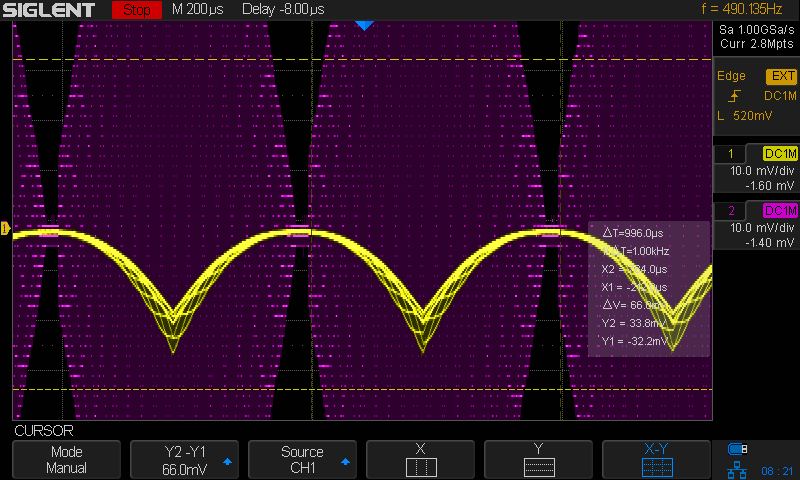
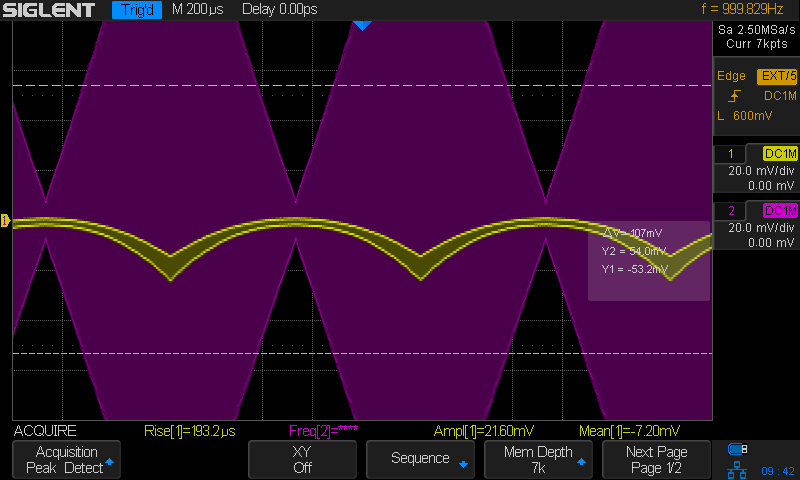
Power sensors.

diff --git a/_drafts/2023-04-19-Automated-HP-423A-Crystal-Detector-Characterization-with-Sqlite3.md b/_drafts/2023-04-19-Automated-HP-423A-Crystal-Detector-Characterization-with-Sqlite3.md
@@ -335,23 +335,27 @@ the small signals, but it definitely looks more linear for higher values.
 
 [![-10dBm AM triangle waveform and detector output on scope](/assets/hp423a/triangle_waveform_-10dBm.png)](/assets/hp423a/triangle_waveform_-10dBm.png)
 
-**XXXXX Are all these graphs wrong? Vpp in the graph is double of what is should be?**
-
 Raising the output by 10dBm once more to 0dBm/0.63Vpp, and there's very little left of quadratic behavior.
 
 [![0dBm AM triangle waveform and detector output on scope](/assets/hp423a/triangle_waveform_0dBm.png)](/assets/hp423a/triangle_waveform_0dBm.png)
+
+*If -20dBm corresponds to 63mVpp, and -10dBm to 0.2Vpp, then why does the cursor on the scope
+shots show a &#916;V? of shots show 104mV and 330mV? It's because the dBm to Vpp forumula assumes
+a fixed amplitude sinewave. In our case, the signal is amplitude modulated, so the peak signal
+excursion is larger to compensate for times where the amplidute is lower.*
 
 # Playing with the Detector Load 
 
 Without a load resistor, or better: with a very weak load resistor of 1M&#937;, the square law
 region of the detector goes from around -50dBm to around -20dBm. There's nothing much we can do about
-the -50dBm: below that you're essentially measuring noise. But it is possible to increase the region
-upwards to -10dBm, by adding a load resistor at the output of the detector.
+the -50dBm: below that you're essentially measuring noise. But it is possible to increase the 
+square law region upwards to -10dBm, by adding a load resistor at the output of the detector.
 
 [![Measurement Setup 2](/assets/hp423a/measurement_setup2.png)](/assets/hp423a/measurement_setup2.png)
 
 HP 11523A is exactly that: "a matched load resistor for optimimum square characteristics". I've
-measured the resistance to be 562&#937;.
+measured the resistance to be 562&#937;. *I don't know which criterium is used to determine
+value of the matched resistor.*
 
 ![HP 423A detector with HP 11523A load resistor](/assets/hp423a/hp423a_hp11523a.jpg)
 
@@ -359,29 +363,22 @@ Here's what happens with our signal for the -10dBm case:
 
 [![-10dBm AM with load resistor triangle waveform and detector output on scope](/assets/hp423a/triangle_waveform_-10dBm_RL.png)](/assets/hp423a/triangle_waveform_-10dBm_RL.png)
 
-The yellow detector output is definitely quadratic again, but the amplitude of the detector 
+The detector output (yellow) is definitely quadratic again, but the amplitude of the detector 
 output is much smaller as well. And the yellow line also has a weird kind of fuzziness.
 
 **Smaller Output Voltage**
 
-The reason for the smaller detector output is simple: the diode may not be a resistor, but
-for a given junction voltage, it will have a corresponding current. The ratio of that voltage
-and current is an equivalent resistance. That resistance is not constant, it changes whenever
-the junction voltage changes, but it's there. In the square law region, this resistance is
-on the order of 10k&#937;, with a very large variation around it!
-
-In combination with a load resistor, these resistance forms a voltage divider. When the only
-load is the 1M&#937; of the oscilloscope, 99% of the voltage of the detector is measured
-by the oscilloscope. The addition of the 562&#937; load resistor shifts the voltage divider
-in the other direction, with the voltage across the divider primarily going to the diode.
+The reason for the smaller detector output is simple: reducing the value of load resistor has
+shifted the voltage divider so that the diode has a larger share of the total input voltage.
 
 **Output Signal Fuziness**
 
-If we change the vertical scale of the scope, we can have a better look at the output signal:
+If we change the vertical scale of the scope and switch the scope to peak detect mode, 
+we can have a better look at the output signal:
 
 [![-10dBm AM with load resistor triangle waveform and detector output on scope - zoomed](/assets/hp423a/triangle_waveform_-10dBm_RL_zoom.png)](/assets/hp423a/triangle_waveform_-10dBm_RL_zoom.png)
 
-The scope is in peak detect mode, and it's clear that the output isn't very clean.
+It's clear that there's a lot of variation on the detector signal output.
 
 We can see what happen when we change the timebase of the scope from 200us, perfect to
 observe the 1kHz amplitude modulated envelope, to 5ns, which is needed to observe the
@@ -389,14 +386,14 @@ observe the 1kHz amplitude modulated envelope, to 5ns, which is needed to observ
 
 [![-10dBm AM with load resistor triangle waveform and detector output on scope - small timebase](/assets/hp423a/triangle_waveform_small_timebase.png)](/assets/hp423a/triangle_waveform_small_timebase.png)
 
-By reducing the load from 1M&#937; to 562&#937;, we have dramatically changes the
+By reducing the load from 1M&#937; to 562&#937;, we have dramatically changed the
 time constant of the RC circuit that is formed by the capacitor inside the detector,
-only 30pF, the capacitance of the coax cable that is connected to the detector, ~210pF,
+only 10pF, the capacitance of the coax cable that is connected to the detector, ~210pF,
 and the load.
 
-With the 1M&#937; load, the time constant is around $$240\times10^{-12} \cdot 10^{6} = 240us$$,
-miles above the 10ns clock period of the 100MHz signal.  With the 562&#937; load, that number
-reduces to $$240\times10^{-12} \cdot 562 = 134ns$$. That's still well above 10ns, but
+With the 1M&#937; load, the time constant is around $$220\times10^{-12} \cdot 10^{6} = 220us$$,
+way above the 10ns clock period of the 100MHz signal.  With the 562&#937; load, that number
+reduces to $$220\times10^{-12} \cdot 562 = 123ns$$. That's still well above 10ns, but
 keep in mind that the time constant is the time needed to discharge a capacitor by 63%.
 
 In the waveform above, we're nowhere close to that, and the capacitance is a rough guess
@@ -418,23 +415,62 @@ to avoid at all cost, because it distorts the signal.
 Yet it's clear from the operating manual, and most other crystal detector literature, that
 square law behavior is often a feature.
 
-That's because crystal detector are often used to measure the power of an RF signal, and
+That's because crystal detectors are often used to measure the power of an RF signal, and
 $$P \sim V^2$$. In other words, if we operate the detector in the square law region and
 measure its output, the voltage that we get is proportional to the power of the signal.
 
-Note that I wrote 'proportional', not 'equal'. That's because the behavior of a diode
+Note that I wrote 'proportional', not 'equal', s because the behavior of a diode
 in the square law region is not only heavily temperature dependent, it also differs
 from one diode to the next.
 
-There are different ways to deal with this. The most common option is to calibrate 
-a square law power sensor before making a measurement. I have an HP 438A power meter,
-another John freebie, without power sensor. 
+# Power Measurement with Crystal Detectors
 
-In the center of the front panel, it prominently features a 1mW power reference. There
+Now that we know that crystal detectors are the key sensor for a class of RF power meter,
+it's time to have a look at one of them: the HP 8484A. Another oldie that's now
+obsolete, but its specifications are close to the 
+[HP 8481D](https://www.keysight.com/us/en/product/8481D/diode-power-sensor-10-mhz-18-ghz.html), 
+which is still for sale, for a whopping $2724. 
+
+![HP 8481D diode power sensor](/assets/hp423a/hp8481d.jpg)
+
+Here's the schematic of the 8484A:
+
+[![HP 8484A schematic](/assets/hp423a/hp8484a_schematic.jpg)](/assets/hp423a/hp8484a_schematic.jpg)
+*(Click to enlarge)*
+
+Except for a DC-blocking capactor at the entrance, the schematic is exactly as one could expect:
+a 53&#937; termination resistor, the detection diode, and a capactor. The output of the detector
+goes to chopper circuit that samples the detector value at a rate of 220Hz.
+
+[![HP 8484A schematic frontend](/assets/hp423a/hp8484a_schematic_frontend.jpg)](/assets/hp423a/hp8484a_schematic_frontend.jpg)
+
+So how does one deal with the temperature and silicon dependency of the detector diode? 
+
+The obvious option is to calibrate the sensor before making a measurement. 
+
+HP 8484A and 8481D sensors plug into an HP 438A power meter, another John freebie, though
+it came without sensors, which are much more expensive that the meter itself!
+
+![HP 438A front image](/assets/hp423a/hp438a_front.jpg)
+
+In the center of the front panel, a 1mW/0dBm power reference is prominently featured, and there 
 are also "ZERO", "CAL ADJ", and "CAL FACTOR" buttons. Before making a set of measurements,
-you first have to calibrate the power sensor before, otherwise the results can be
+you first have to calibrate the power sensor before, otherwise the results will be
 all over the place.
 
+But even calibration against the power reference is not enough. The reference output
+frequency is fixed at 50MHz.
+
+![HP 8484A frequency calibration table](/assets/hp423a/hp8484a_calibration_table.jpg)
+
+Keysight has a large arsenal of RF power sensors with different frequency and
+power ranges. The HP 8484A and 8481D sensors shall only be used for RF sources
+with a maximum power level  of -20dBm. To calibrate those against a device like
+the HP 438A, you always need to use an HP provided reference attenuator.
+
+I don't a power sensor yet for my HP 438A, but 
+[Daniel Tufvesson](https://twitter.com/DanielTufvesson/status/1647545015764230144) 
+has been hard at work at building one himself.
 
 # Characterizing the Detector
 
